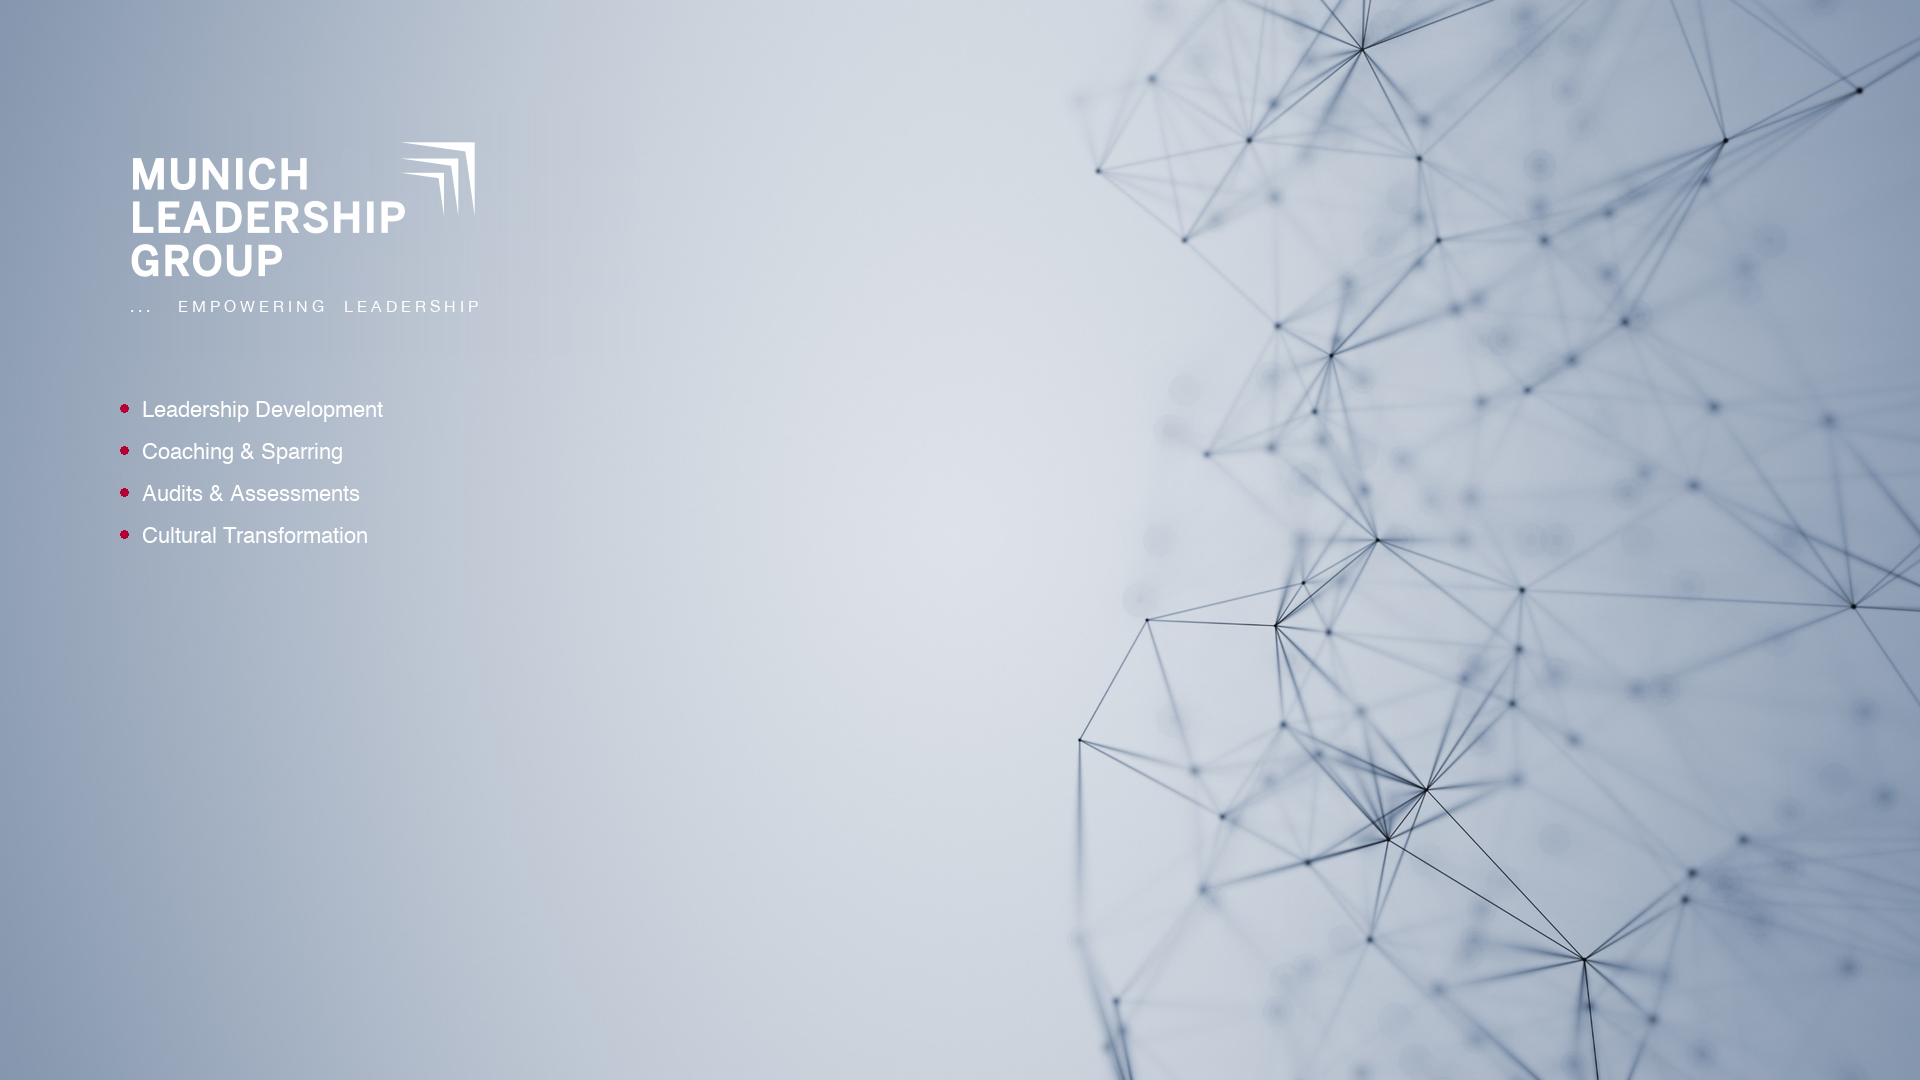
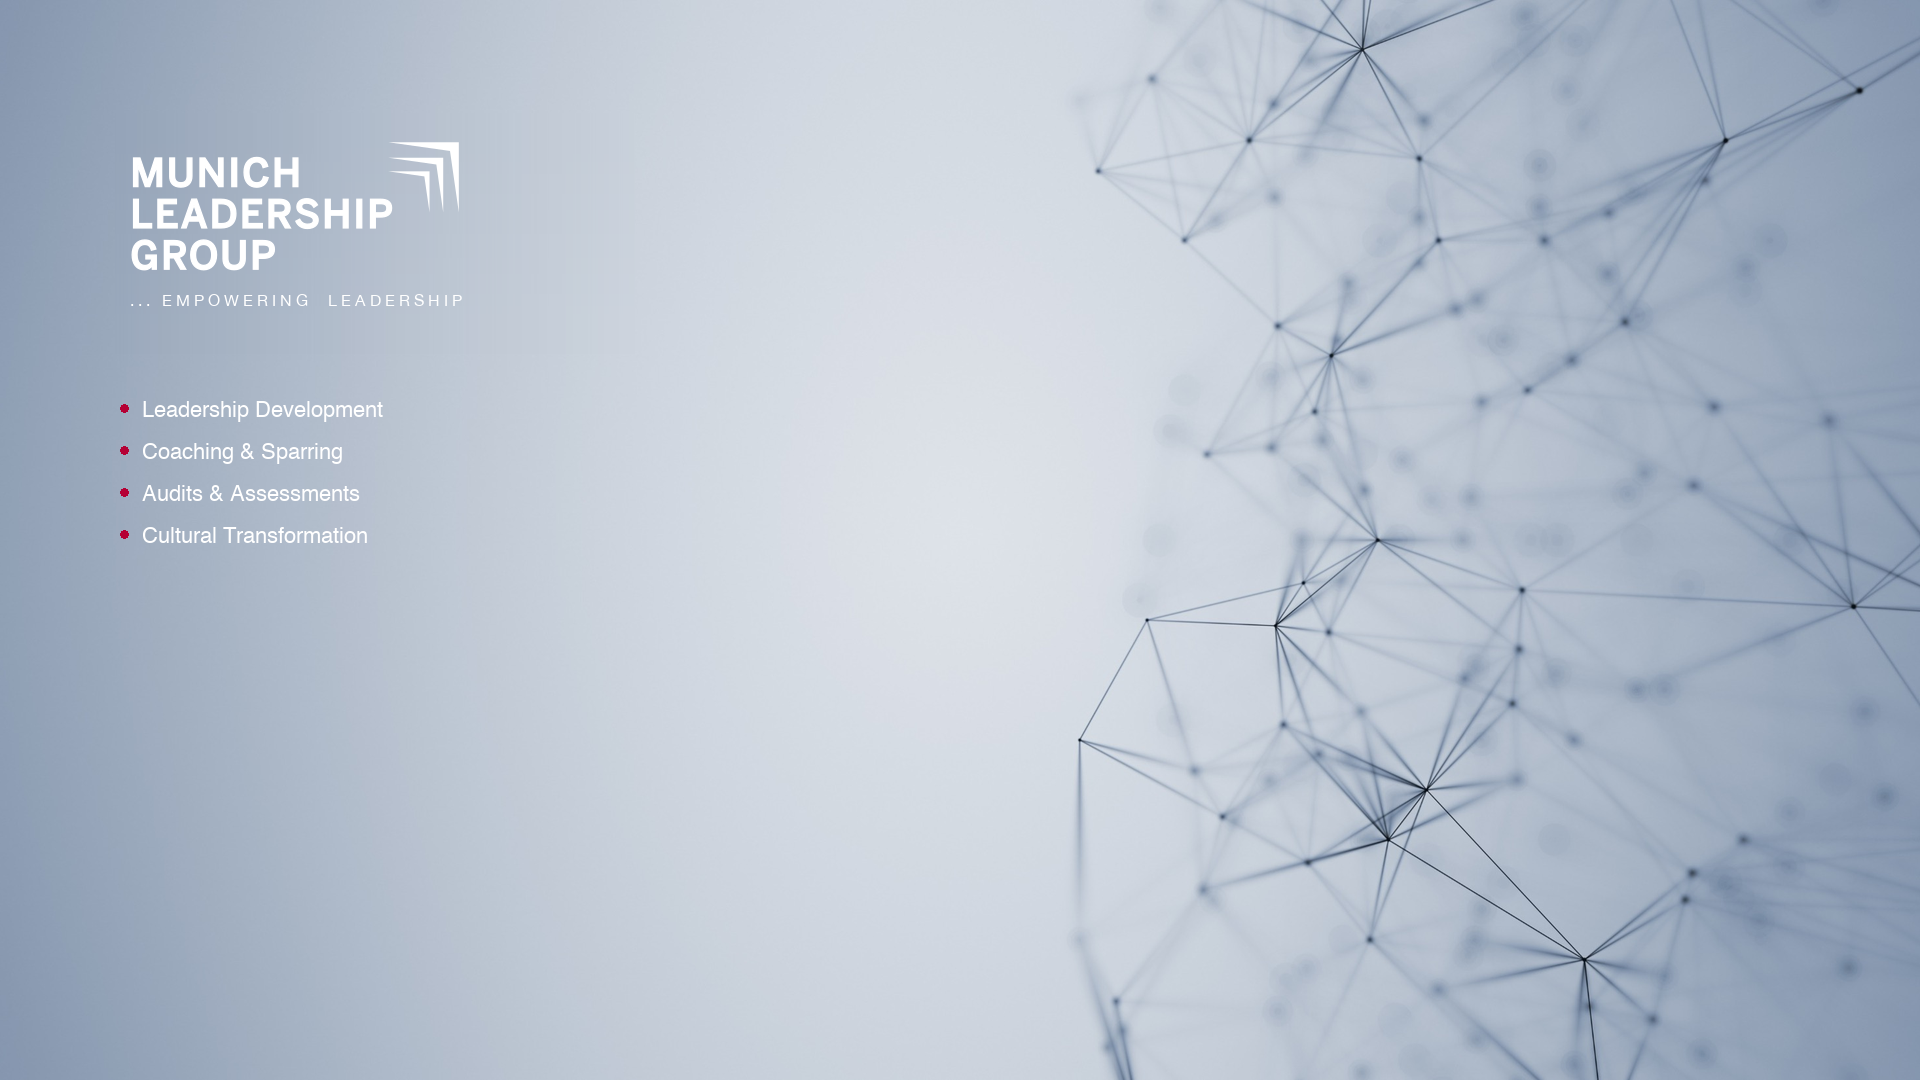
Teams BG: tighten the gap between '...' and 'EMPOWERING'.
Changed subtitle from "...   EMPOWERING  LEADERSHIP" (3 spaces) to
"... EMPOWERING  LEADERSHIP" (1 space) so the dots sit closer to the
'E', matching the rhythm of the letter-tracking between subsequent
glyphs.

Changed region(s): [[0.0625, 0.1222, 0.25, 0.3056], [0.2188, 0.1222, 0.25, 0.1833]]

diff --git a/scripts/build_teams_bg.py b/scripts/build_teams_bg.py
@@ -26,7 +26,7 @@ PATCH_BOX = (115, 113, 635, 355)   # (left, top, right, bottom)
 
 # New subtitle (with the three dots) and styling — smaller than original
 # so the matching logo is also smaller than what was there before.
-SUBTITLE  = "...   EMPOWERING  LEADERSHIP"
+SUBTITLE  = "... EMPOWERING  LEADERSHIP"   # tighter gap between dots and E
 SUB_PT    = 16           # font size (px) — was 22; shrinks logo to ~300 px
 SUB_TRACK = 4            # extra px between glyphs
 
